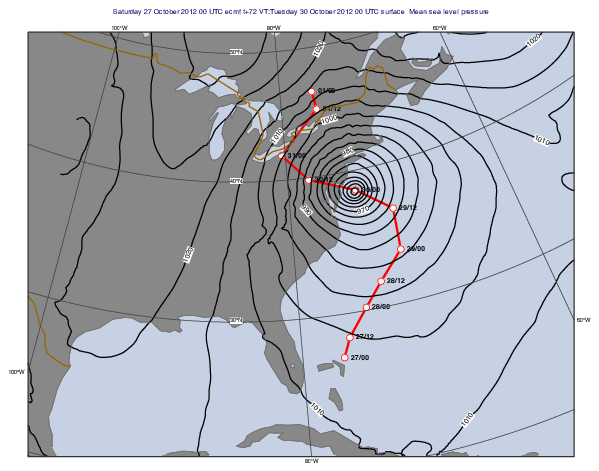
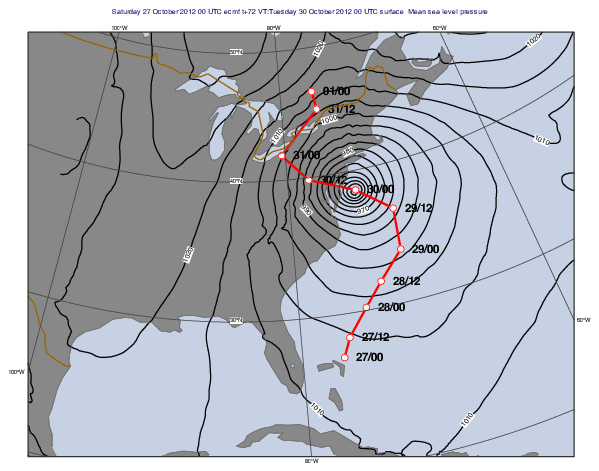
Fix method to plot location names in storm_track.py

diff --git a/docs/gallery/storm_track.py b/docs/gallery/storm_track.py
@@ -32,6 +32,12 @@ val_time = mv.values(tbl, 1)
 val_lon = mv.values(tbl, 2)
 val_lat = mv.values(tbl, 3)
 
+# to plot text labels at each point, we will need to use the 'text' mode
+# of msymb(). This requires associating each point with its text label, so we will
+# generate values of 0,1,2,3,...,N-1 for the points and create an msymb() that
+# maps each value to a generated date/time label.
+val_idx = list(range(len(val_lat)+1)) # indexes: 0->N
+
 # define date and time labels for track points
 val_label = []
 for i in range(len(val_date)):
@@ -53,18 +59,24 @@ track_graph = mv.mgraph(
 
 # define label properties
 track_text = mv.msymb(
+    legend="off",
     symbol_type="text",
-    symbol_text_font_colour="black",
-    symbol_text_font_size="0.3",
-    symbol_text_font_style="bold",
-    symbol_text_list=val_label,
-)
+    symbol_table_mode="advanced",
+    symbol_advanced_table_selection_type="list",
+    symbol_advanced_table_level_list=val_idx,
+    symbol_advanced_table_text_list=val_label,
+    symbol_advanced_table_text_font_size=0.5,
+    symbol_advanced_table_text_font_style="bold",
+    symbol_advanced_table_text_font_colour="black",
+    symbol_advanced_table_text_display_type="right",
+    )
 
 # create a visualiser for the track
 track_vis = mv.input_visualiser(
     input_plot_type="geo_points",
     input_longitude_values=list(val_lon),
     input_latitude_values=list(val_lat),
+    input_values=list(val_idx)
 )
 
 # read mslp forecast from grib file
@@ -111,4 +123,4 @@ view = mv.geoview(
 mv.setoutput(mv.pdf_output(output_name="storm_track"))
 
 # Plot the track and the mslp
-mv.plot(view, track_vis, track_graph, track_text, g_mslp, cont_mslp)
+mv.plot(view, g_mslp, cont_mslp, track_vis, track_text, track_graph)
